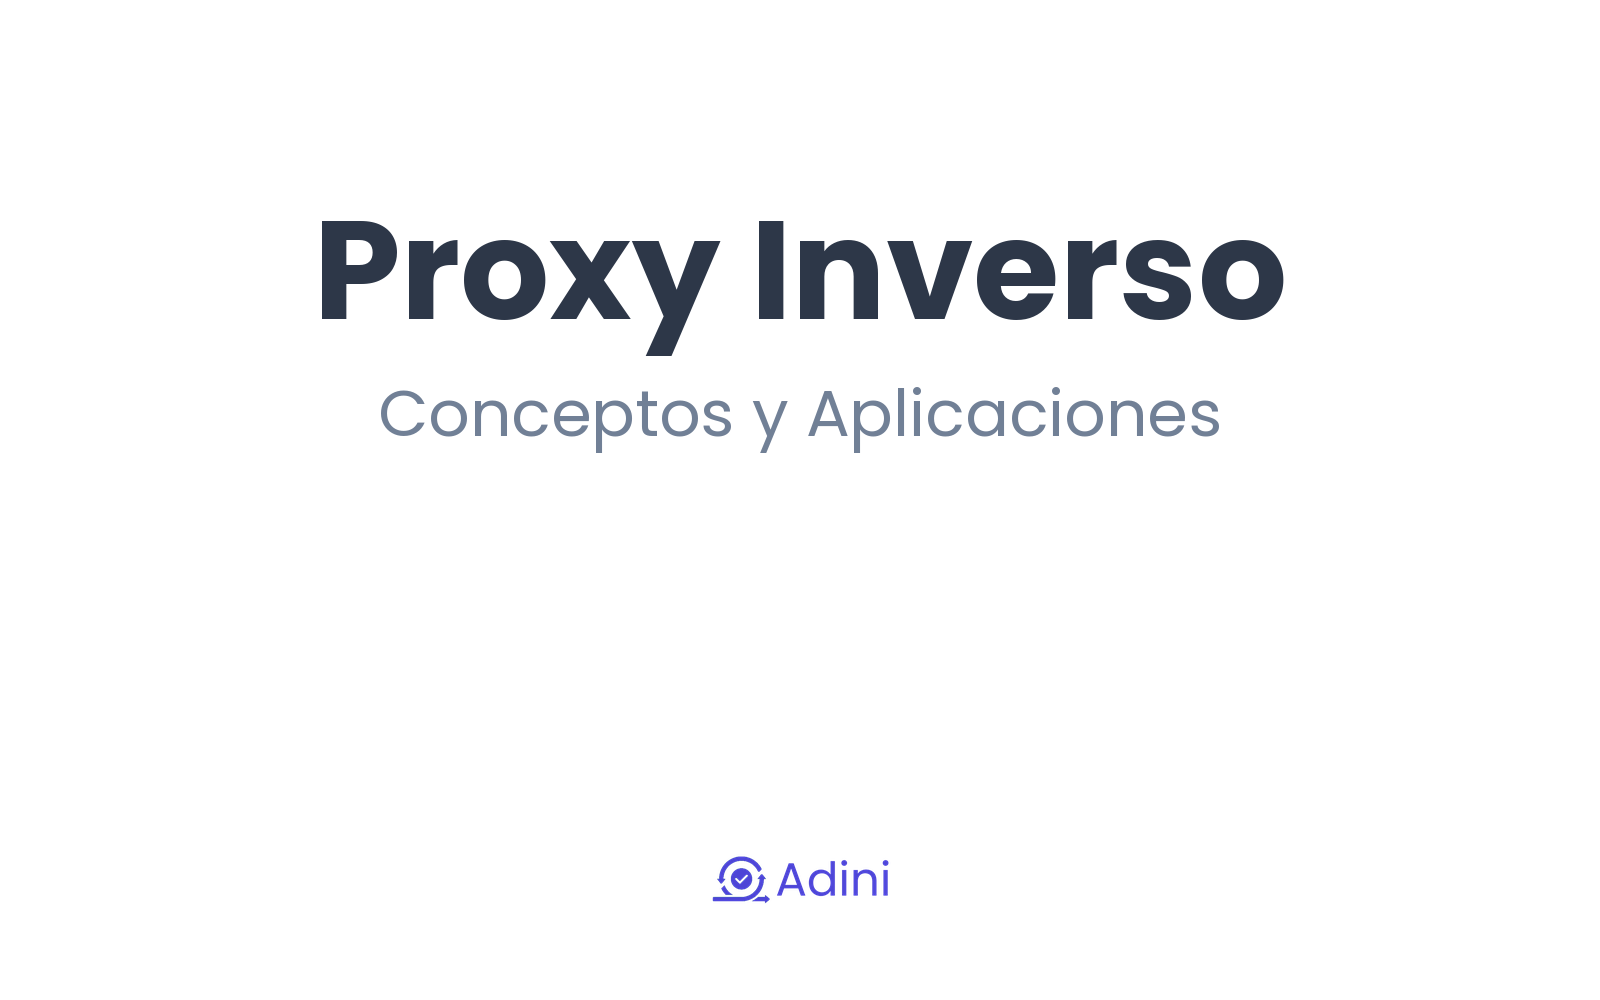
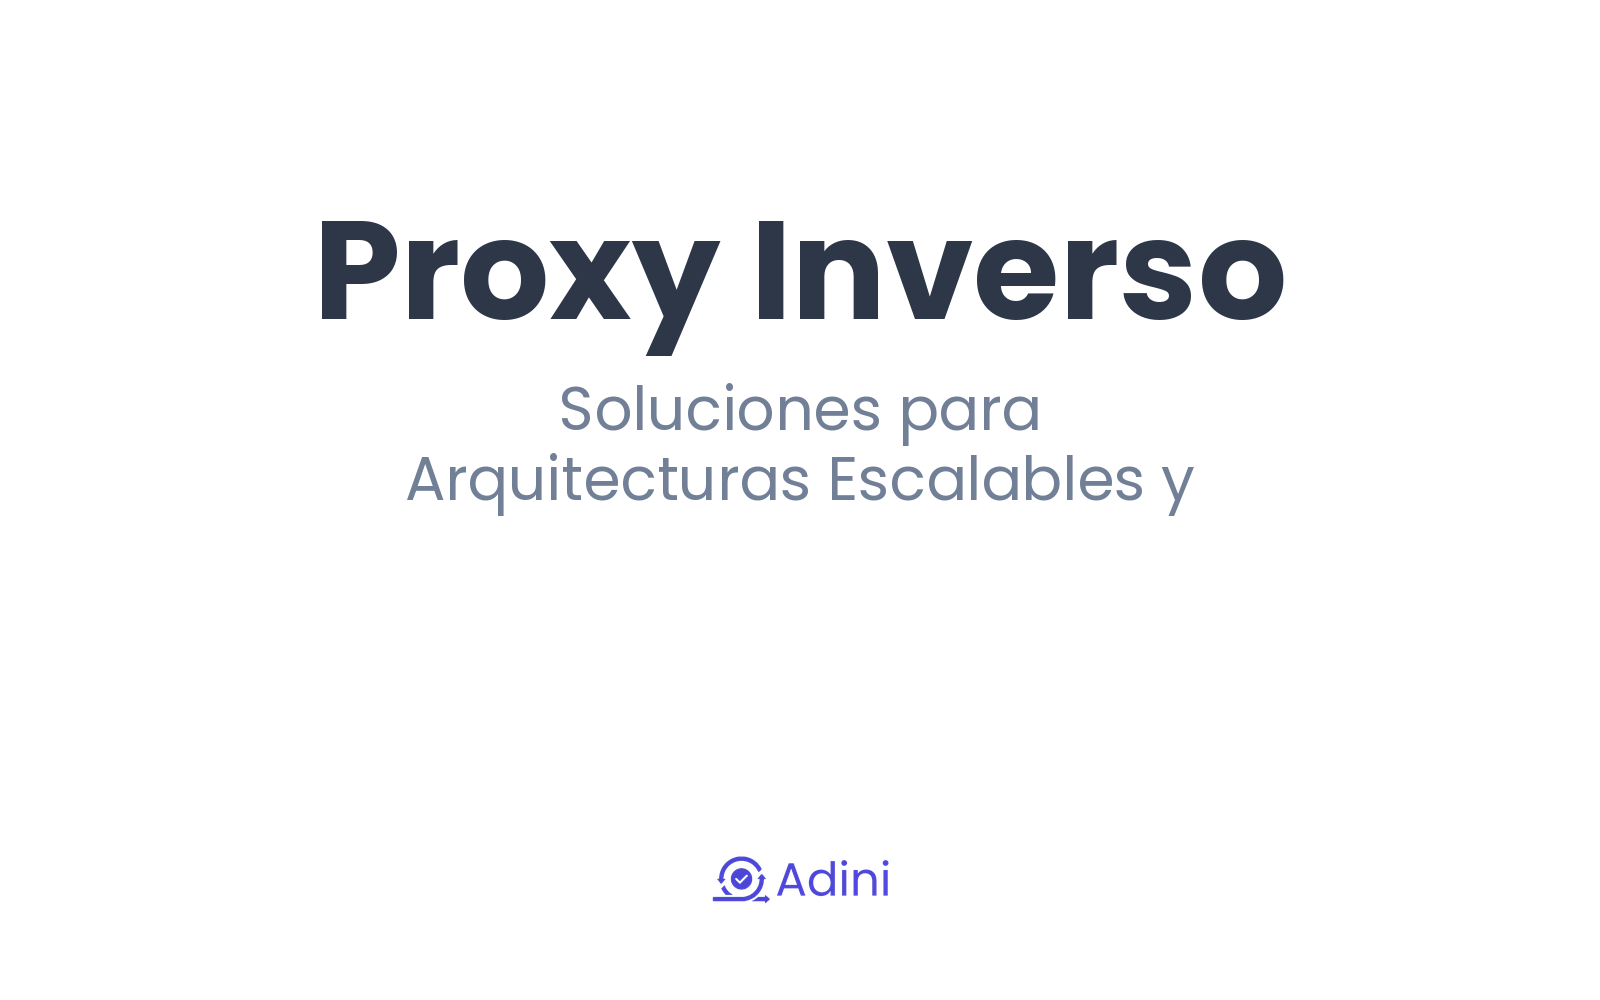
Add article: Proxy Inverso

Changed region(s): [[0.2188, 0.372, 0.7812, 0.527]]

diff --git a/agustin-ezequiel-acevedo/2026/proxy-inverso/proxy-inverso.md b/agustin-ezequiel-acevedo/2026/proxy-inverso/proxy-inverso.md
@@ -1,89 +1,54 @@
-# Proxy Inverso - Conceptos y Aplicaciones
-## Mejorando la Seguridad y el Rendimiento en Arquitecturas Modernas
+# Proxy Inverso - Soluciones para Arquitecturas Escalables y Seguras
+La arquitectura de sistemas informáticos ha evolucionado significativamente en los últimos años, con un enfoque cada vez mayor en la escalabilidad, la seguridad y la eficiencia. Una de las herramientas clave para lograr estos objetivos es el proxy inverso. Un proxy inverso se sitúa entre los clientes y los servidores, actuando como un intermediario que puede mejorar el rendimiento, la seguridad y la capacidad de respuesta de los servicios web. En este artículo, se explorarán los conceptos básicos de los proxy inversos, sus usos, ventajas y se profundizará en la implementación de soluciones como Traefik y Nginx en entornos contenerizados.
 
-La implementación de un proxy inverso es una práctica común en la industria de la tecnología para mejorar la seguridad, el rendimiento y la escalabilidad de las arquitecturas de aplicaciones. En este artículo, exploraremos qué es un proxy inverso, sus tipos, ventajas y beneficios, así como también su implementación en diferentes entornos.
+La seguridad es un aspecto fundamental en la arquitectura de sistemas modernos. Los ataques cibernéticos son cada vez más sofisticados, y la protección de los datos y los servicios es crucial. Un proxy inverso puede actuar como una capa de defensa adicional, ocultando la infraestructura interna de la red y protegiendo contra ataques como el escaneo de puertos y la inyección de código malicioso. Además, los proxy inversos pueden manejar la autenticación y la autorización de los usuarios, restringiendo el acceso a los recursos sensibles.
 
-## Introducción al Proxy Inverso
+El rendimiento es otro factor clave en la experiencia del usuario. Un proxy inverso puede mejorar significativamente la velocidad de respuesta de los servicios web, actuando como un servidor de caché y reduciendo la carga en los servidores backend. Esto es especialmente importante en aplicaciones que requieren una gran cantidad de datos o que tienen un tráfico alto. Además, los proxy inversos pueden distribuir el tráfico de manera eficiente entre varios servidores, lo que mejora la escalabilidad y la disponibilidad de los servicios.
 
-Un proxy inverso es un servidor que actúa como intermediario entre los clientes y los servidores de aplicaciones. En lugar de que los clientes accedan directamente a los servidores de aplicaciones, los clientes se conectan al proxy inverso, que a su vez se conecta a los servidores de aplicaciones. Esto permite ocultar la infraestructura interna de la red y proteger los servidores de aplicaciones de accesos no autorizados.
+## Conceptos Básicos y Tipos de Proxy Inverso
+Un proxy inverso es un servidor que actúa como intermediario entre los clientes y los servidores. Los clientes envían sus solicitudes al proxy inverso, que las reenvía a los servidores adecuados. Los proxy inversos pueden ser clasificados en diferentes tipos según su función y configuración. Algunos de los tipos más comunes incluyen:
+- **Proxy inverso de aplicaciones**: Estos proxy están diseñados para trabajar con aplicaciones específicas, como servidores web o aplicaciones de API.
+- **Proxy inverso de carga**: Estos proxy están diseñados para distribuir el tráfico entre varios servidores, mejorando la escalabilidad y la disponibilidad.
+- **Proxy inverso de seguridad**: Estos proxy están diseñados para proporcionar una capa adicional de seguridad, protegiendo contra ataques cibernéticos y malware.
 
-## Tipos de Proxy Inverso
-
-Existen varios tipos de proxy inverso, incluyendo:
-
-* Proxy inverso de aplicación: se enfoca en la aplicación específica que se está protegiendo.
-* Proxy inverso de carga: se enfoca en distribuir el tráfico entre múltiples servidores.
-* Proxy inverso de seguridad: se enfoca en la seguridad y el bloqueo de accesos no autorizados.
-
-## Ventajas y Beneficios del Proxy Inverso
-
-La implementación de un proxy inverso ofrece varias ventajas y beneficios, incluyendo:
-
-* **Seguridad**: el proxy inverso puede actuar como un firewall y bloquear accesos no autorizados a los servidores de aplicaciones.
-* **Rendimiento**: el proxy inverso puede cachear respuestas y reducir la carga en los servidores de aplicaciones.
-* **SSL/TLS**: el proxy inverso puede manejar la terminación de SSL/TLS y descargara la carga de los servidores de aplicaciones.
-* **Monitoreo**: el proxy inverso puede monitorear el tráfico y proporcionar información valiosa para el análisis y la depuración.
-* **Load Balancing**: el proxy inverso puede distribuir el tráfico entre múltiples servidores y mejorar la escalabilidad.
-* **Único Punto de Entrada**: el proxy inverso puede actuar como un único punto de entrada para los clientes y simplificar la configuración y el mantenimiento.
-
-## Implementación de Proxy Inverso en Arquitecturas Self-Host
-
-Para implementar un proxy inverso en arquitecturas self-host, se pueden utilizar herramientas como HAProxy o Traefik. A continuación, se muestra un ejemplo de configuración de HAProxy:
+## Implementación de Proxy Inverso con Traefik y Nginx
+En entornos contenerizados, herramientas como Traefik y Nginx son muy populares para la implementación de proxy inversos. Traefik es una herramienta de código abierto que permite la configuración de proxy inversos de manera sencilla y escalable. Puede ser utilizado en conjunto con Docker y Kubernetes para crear arquitecturas complejas.
 ```bash
-global
-    maxconn 256
-
-defaults
-    mode http
-    timeout connect 5000ms
-    timeout client  50000ms
-    timeout server  50000ms
-
-frontend http
-    bind *:80
-    default_backend servers
-
-backend servers
-    mode http
-    balance roundrobin
-    server server1 127.0.0.1:8080 check
-    server server2 127.0.0.1:8081 check
+# Ejemplo de configuración de Traefik
+version: '3'
+services:
+  traefik:
+    image: traefik:v2.2
+    ports:
+      - "80:80"
+    volumes:
+      - ./traefik.yml:/etc/traefik/traefik.yml
+    command: --configFile=/etc/traefik/traefik.yml
 ```
-## Implementación de Proxy Inverso en Arquitecturas en la Nube Pública
-
-En arquitecturas en la nube pública, como AWS, GCP o Azure, se pueden utilizar servicios de proxy inverso como Amazon ELB, Google Cloud Load Balancing o Azure Load Balancer. A continuación, se muestra un ejemplo de configuración de Amazon ELB:
-```json
-{
-    "LoadBalancers": [
-        {
-            "LoadBalancerName": "my-elb",
-            "Listeners": [
-                {
-                    "Protocol": "HTTP",
-                    "LoadBalancerPort": 80,
-                    "InstanceProtocol": "HTTP",
-                    "InstancePort": 8080
-                }
-            ],
-            "AvailabilityZones": [
-                "us-east-1a",
-                "us-east-1b"
-            ]
+Nginx es otro servidor web popular que puede ser utilizado como proxy inverso. Puede ser configurado para trabajar con Docker y Kubernetes, y ofrece una gran flexibilidad en términos de configuración.
+```nginx
+# Ejemplo de configuración de Nginx
+http {
+    server {
+        listen 80;
+        server_name example.com;
+        location / {
+            proxy_pass http://backend;
+            proxy_set_header Host $host;
+            proxy_set_header X-Real-IP $remote_addr;
         }
-    ]
+    }
 }
 ```
-## Comparación de Traefik y Nginx
-
-Traefik y Nginx son dos populares herramientas de proxy inverso. A continuación, se muestra una comparación de sus características:
-| Característica | Traefik | Nginx |
-| --- | --- | --- |
-| Soporte para Docker | Sí | Sí |
-| Soporte para Kubernetes | Sí | Sí |
-| Terminación de SSL/TLS | Sí | Sí |
-| Load Balancing | Sí | Sí |
-| Monitoreo | Sí | Sí |
+## Ventajas y Beneficios del Uso de Proxy Inverso
+El uso de un proxy inverso ofrece numerous ventajas y beneficios, incluyendo:
+- **Mejora de la seguridad**: Los proxy inversos pueden actuar como una capa de defensa adicional, protegiendo contra ataques cibernéticos y malware.
+- **Mejora del rendimiento**: Los proxy inversos pueden mejorar la velocidad de respuesta de los servicios web, actuando como un servidor de caché y reduciendo la carga en los servidores backend.
+- **Escalabilidad**: Los proxy inversos pueden distribuir el tráfico de manera eficiente entre varios servidores, lo que mejora la escalabilidad y la disponibilidad de los servicios.
+- **Unico punto de entrada**: Los proxy inversos pueden actuar como un único punto de entrada para los servicios web, lo que simplifica la configuración y el mantenimiento.
 
 ## Conclusión
+En resumen, los proxy inversos son herramientas fundamentales en la arquitectura de sistemas modernos, ofreciendo una gran variedad de beneficios y ventajas. Desde la mejora de la seguridad y el rendimiento hasta la escalabilidad y la disponibilidad, los proxy inversos pueden ayudar a crear arquitecturas más eficientes y seguras. La implementación de herramientas como Traefik y Nginx en entornos contenerizados puede ser una excelente opción para aquellos que buscan aprovechar los beneficios de los proxy inversos.
 
-En conclusión, la implementación de un proxy inverso es una práctica común en la industria de la tecnología para mejorar la seguridad, el rendimiento y la escalabilidad de las arquitecturas de aplicaciones. Existiendo diferentes tipos de proxy inverso y herramientas para implementarlos, es importante elegir la herramienta adecuada para cada caso específico. Con la creciente adopción de la nube pública y el uso de contenedores, el proxy inverso se vuelve cada vez más importante para proteger y optimizar las aplicaciones.
+## Llamado a la Acción
+¿Qué experiencias han tenido con la implementación de proxy inversos en sus arquitecturas? ¿Cuáles son los beneficios y desafíos que han encontrado? Compartan sus historias y preguntas en los comentarios a continuación.
